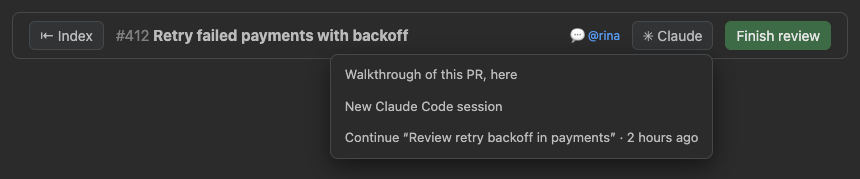
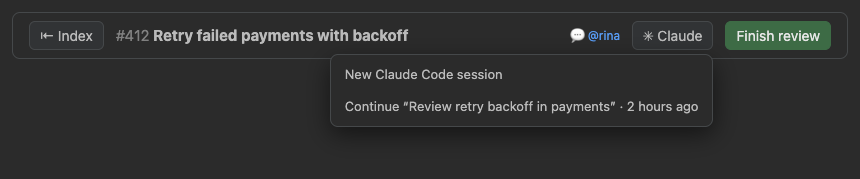
Remove the Claude walkthrough
It didn't work out. ✳ Ask Claude keeps the claude CLI call, renamed for
what it is now (claude_text, /claude-text).

diff --git a/app/src/review.tsx b/app/src/review.tsx
@@ -13,11 +13,11 @@ import { renderMermaid } from './mermaid.ts';
 import { Editor } from './editor.tsx';
 import { MergeBox } from './merge.tsx';
 import { ACTIONS, FIXED, hint, keyLabel, readBindings, useBindings, type Action } from './keys.ts';
-import { claudeContinueLink, claudeNewLink, walkthroughPrompt, askPrompt, reviewDonePrompt, commentPrompt, prPrompt } from './claude.ts';
+import { claudeContinueLink, claudeNewLink, askPrompt, reviewDonePrompt, commentPrompt, prPrompt } from './claude.ts';
 import { vectorToSvg } from './vector.ts';
 import { docBlocks, docParts, docSyntax, editedDocBlocks, lineCommentBlocks, lineCommentSyntax, type DocBlock } from './docs.ts';
 import { reviewOrder, untested } from './files.ts';
-import { ago, backToClaude, claudeWalkthrough, linkedClaude, prCache, claudeFolder, fetchJira, useFoldBots, slackEscape, getClaudeSessions, type ClaudeSession, notifySlack, openClaude, slackStatus, storage, useBots, useStoredFlag, type JiraIssue, type SlackThread } from './platform.ts';
+import { ago, askClaudeCli, backToClaude, linkedClaude, prCache, claudeFolder, fetchJira, useFoldBots, slackEscape, getClaudeSessions, type ClaudeSession, notifySlack, openClaude, slackStatus, storage, useBots, useStoredFlag, type JiraIssue, type SlackThread } from './platform.ts';
 import { adfToMarkdown, jiraKeys } from './jira.ts';
 import { Resizer } from './resizer.tsx';
 import { jumpTo, ShortcutIndex, threadOrder, type File } from './shortcuts.tsx';
@@ -638,7 +638,6 @@ export function Review({ repo, n, onSubmitted, onReviewed, flash }: { repo: stri
             <p class="warn">New commits were pushed since you started this review. Your pending comments refer to the older commit.</p>
           )}
           {jiraKeys(pr.title, pr.head.ref).map((k) => <Ticket key={k} id={k} lang={mainLang} />)}
-          <Walkthrough pr={pr} repo={repo} files={data.files} />
           <AskClaude pr={pr} repo={repo} headRepo={data.headRepo} files={data.files} />
           {mine && <MergeBox repo={repo} n={n} url={pr.html_url} checks={checks} onChange={onSubmitted} />}
           <Conversation pr={pr} items={conv} lang={mainLang} repo={repo} me={me} />
@@ -1632,11 +1631,6 @@ function ClaudeMenu({ prompt, repo, prUrl, label }: { prompt: string; repo: stri
               Back to the session that sent this{fromSession ? ` · “${fromSession.title || 'Untitled'}”` : ''}
             </button>
           )}
-          {label && (
-            <button role="menuitem" title="Claude reads the diff and summarizes it above the files" onClick={() => (setOpen(false), dispatchEvent(new Event('lgtm:walkthrough')))}>
-              Walkthrough of this PR, here
-            </button>
-          )}
           <button role="menuitem" onClick={() => (setOpen(false), void openClaude(claudeNewLink(prompt, claudeFolder(repo))))}>
             New Claude Code session
           </button>
@@ -1662,83 +1656,7 @@ function ClaudeMenu({ prompt, repo, prUrl, label }: { prompt: string; repo: stri
   );
 }
 
-// "✳ Claude → Walkthrough": Claude Code's summary of the PR, above the files. Kept per PR with the commit it read;
-// file paths in it jump to the file.
-type WalkthroughSaved = { sha: string; text: string; html: string };
-function Walkthrough({ pr, repo, files }: { pr: PR; repo: string; files: File[] }) {
-  const key = `walkthrough:${repo}#${pr.number}`;
-  const read = (): WalkthroughSaved | null => {
-    try {
-      return JSON.parse(localStorage.getItem(key) ?? 'null');
-    } catch {
-      return null;
-    }
-  };
-  const [saved, setSaved] = useState(read);
-  const [busy, setBusy] = useState(false);
-  const [err, setErr] = useState('');
-  const run = async () => {
-    setBusy(true);
-    setErr('');
-    try {
-      const text = await claudeWalkthrough(walkthroughPrompt(pr, files));
-      const next = { sha: pr.head.sha, text, html: await renderGfm(text, repo) }; // GitHub sanitizes the HTML
-      try {
-        localStorage.setItem(key, JSON.stringify(next));
-      } catch {}
-      setSaved(next);
-    } catch (e: any) {
-      setErr(e.message);
-    }
-    setBusy(false);
-  };
-  useEffect(() => {
-    const go = () => void run();
-    addEventListener('lgtm:walkthrough', go);
-    return () => removeEventListener('lgtm:walkthrough', go);
-  }, [pr.head.sha, files]);
-  // A path in backticks that names a file in this PR (in full, or by an unambiguous end) jumps to it.
-  const fileFor = (t: string) => {
-    const exact = files.find((f) => f.filename === t);
-    const ends = files.filter((f) => f.filename.endsWith('/' + t));
-    return exact ?? (ends.length === 1 ? ends[0] : undefined);
-  };
-  const body = useRef<HTMLDivElement>(null);
-  useEffect(() => {
-    for (const c of body.current?.querySelectorAll('code') ?? []) if (fileFor(c.textContent ?? '')) c.classList.add('wt-file');
-  }, [saved, files]);
-  if (!saved && !busy && !err) return null;
-  return (
-    <details class="walkthrough" open>
-      <summary>
-        ✳ Walkthrough by Claude
-        {saved && saved.sha !== pr.head.sha && <span class="pill p-warn">written before the latest commits</span>}
-        <button disabled={busy} onClick={(e) => (e.preventDefault(), void run())}>{busy ? 'Claude is reading the diff…' : 'Write again'}</button>
-        <button title="Remove" onClick={(e) => (e.preventDefault(), localStorage.removeItem(key), setSaved(null), setErr(''))}>✕</button>
-      </summary>
-      {err && (
-        <p class="error">
-          Couldn't get a walkthrough: {err}
-          {/authenticat|oauth|log ?in/i.test(err) && <> Sign Claude Code in again: run <code>claude</code> in Terminal, then <code>/login</code>.</>}
-        </p>
-      )}
-      {saved && (
-        <div
-          ref={body}
-          class="md"
-          dangerouslySetInnerHTML={{ __html: saved.html }}
-          onClick={(e) => {
-            const f = (e.target as Element).closest('code.wt-file') && fileFor((e.target as Element).textContent ?? '');
-            if (f) document.getElementById('f-' + f.filename)?.scrollIntoView();
-          }}
-        />
-      )}
-    </details>
-  );
-}
-
-// Select code in a file, then "✳ Ask Claude": a question about it, answered by the claude CLI (as the walkthrough)
-// with the file, its diff in this PR and the selection.
+// Select code in a file, then "✳ Ask Claude": a question about it, answered by the claude CLI with the file, its diff in this PR and the selection.
 function AskClaude({ pr, repo, headRepo, files }: { pr: PR; repo: string; headRepo: string; files: File[] }) {
   const [sel, setSel] = useState<{ path: string; text: string; x: number; y: number } | null>(null);
   const [panel, setPanel] = useState<{ path: string; text: string } | null>(null);
@@ -1770,7 +1688,7 @@ function AskClaude({ pr, repo, headRepo, files }: { pr: PR; repo: string; headRe
     try {
       const f = files.find((f) => f.filename === panel.path);
       const source = f?.status === 'removed' ? null : await getRaw(headRepo, panel.path, pr.head.sha).catch(() => null);
-      const text = await claudeWalkthrough(askPrompt(pr, panel.path, f?.patch, source, panel.text, q.trim()));
+      const text = await askClaudeCli(askPrompt(pr, panel.path, f?.patch, source, panel.text, q.trim()));
       setAnswer({ html: await renderGfm(text, repo) }); // GitHub sanitizes the HTML
     } catch (e: any) {
       setAnswer({ error: e.message });

diff --git a/app/src/claude.ts b/app/src/claude.ts
@@ -35,36 +35,6 @@ export function commentPrompt(
   ].join('\n');
 }
 
-// The walkthrough (shown in lgtm, from the claude CLI): what the PR does, its changes grouped by intent, and where to
-// slow down. Generated files are left out; the diff is cut at MAX_DIFF characters.
-const MAX_DIFF = 400_000;
-export function walkthroughPrompt(
-  pr: { html_url: string; title: string; body: string | null },
-  files: { filename: string; status: string; patch?: string; generated?: boolean }[],
-): string {
-  let diff = '';
-  for (const f of files.filter((f) => !f.generated)) {
-    const part = `--- ${f.filename} (${f.status})\n${f.patch ?? '(no text diff: binary, renamed only, or too large)'}\n`;
-    if (diff.length + part.length > MAX_DIFF) {
-      diff += `\n(The diff continues; it was cut here for length.)\n`;
-      break;
-    }
-    diff += part;
-  }
-  return [
-    "You're helping someone review a GitHub pull request. Its title, description and diff are below. Write a short walkthrough in Markdown:",
-    '1. One or two sentences: what the PR does and why.',
-    '2. A "### Changes" section: the changes grouped by intent (not file by file), one bullet each, naming the files involved as full paths in backticks, exactly as in the diff.',
-    '3. A "### Worth a close look" section: up to five spots where a reviewer should slow down (risky logic, edge cases, behaviour changes, missing tests), each naming the file path in backticks and saying why.',
-    'Be concise and concrete. No praise, no preamble, no closing remarks.',
-    '',
-    `PR: ${pr.html_url}`,
-    `Title: ${pr.title}`,
-    `Description:\n${pr.body?.trim() || '(none)'}`,
-    `Diff:\n${diff}`,
-  ].join('\n');
-}
-
 // "Ask Claude" about code selected in a file: the question with the file as it is now, its diff in this PR and the
 // selection.
 export function askPrompt(

diff --git a/app/src/style.css b/app/src/style.css
@@ -476,14 +476,6 @@ mark.wd-add { background: light-dark(#a6f0b5, #3a6b45); color: inherit; padding:
 .set-replies td { padding: 3px 4px; vertical-align: top; }
 .set-replies td:first-child { width: 120px; }
 .set-replies input, .set-replies textarea { width: 100%; box-sizing: border-box; font: inherit; }
-/* Claude's walkthrough, above the files */
-.walkthrough { margin-bottom: 12px; padding: 8px 12px; border: 1px solid var(--border); border-left: 4px solid var(--accent); border-radius: 6px; }
-.walkthrough > summary { display: flex; align-items: center; gap: 8px; font-weight: 600; font-size: 13px; cursor: pointer; }
-.walkthrough > summary button { font-weight: 400; font-size: 12px; }
-.walkthrough > summary button:first-of-type { margin-left: auto; }
-.walkthrough .md { font-size: 14px; }
-.walkthrough code.wt-file { cursor: pointer; color: var(--accent); }
-.walkthrough code.wt-file:hover { text-decoration: underline; }
 .g-note { margin-left: 6px; font-weight: 400; color: var(--muted); }
 /* The app: the top bar is the title bar, with room for the traffic lights on the left. */
 .desktop .top { padding-left: 84px; -webkit-user-select: none; user-select: none; }

diff --git a/app/src/platform.ts b/app/src/platform.ts
@@ -315,12 +315,12 @@ export async function availableUpdate(): Promise<string | null> {
   }
   return newer(saved.latest, __APP_VERSION__) ? saved.latest.replace(/^v/, '') : null;
 }
-// A PR walkthrough from Claude Code (the claude CLI) for a prompt the page builds (claude.ts).
-export async function claudeWalkthrough(input: string): Promise<string> {
-  if (isDesktop) return command<string>('walkthrough', { input });
-  const res = await fetch('/walkthrough', { method: 'POST', headers: { 'Content-Type': 'application/json' }, body: JSON.stringify({ input }) });
+// Claude Code's answer (the claude CLI) to a prompt the page builds (claude.ts: Ask Claude).
+export async function askClaudeCli(input: string): Promise<string> {
+  if (isDesktop) return command<string>('claude_text', { input });
+  const res = await fetch('/claude-text', { method: 'POST', headers: { 'Content-Type': 'application/json' }, body: JSON.stringify({ input }) });
   const d = await res.json().catch(() => ({ error: res.statusText }));
-  if (!res.ok) throw new Error(d.error ?? 'Walkthrough failed');
+  if (!res.ok) throw new Error(d.error ?? 'Claude failed');
   return d.text;
 }
 

diff --git a/app/src/demos.tsx b/app/src/demos.tsx
@@ -427,7 +427,6 @@ const Bar = ({ menu }: { menu?: boolean }) => (
       <button class="claude-btn">✳ Claude</button>
       {menu && (
         <span class="claude-pop" role="menu">
-          <button role="menuitem">Walkthrough of this PR, here</button>
           <button role="menuitem">New Claude Code session</button>
           <button role="menuitem">Continue “Review retry backoff in payments” · 2 hours ago</button>
         </span>

diff --git a/desktop/src-tauri/src/commands.rs b/desktop/src-tauri/src/commands.rs
@@ -431,12 +431,12 @@ pub async fn clipboard_pr() -> Option<String> {
     pr_link(&String::from_utf8_lossy(&out.stdout[..out.stdout.len().min(1 << 16)]))
 }
 
-/// The PR walkthrough: the page's prompt through Claude Code's CLI, without tools or a saved session (as the server's
+/// Ask Claude: the page's prompt through Claude Code's CLI, without tools or a saved session (as the server's
 /// claudeText()).
 #[tauri::command]
-pub async fn walkthrough(input: String) -> Result<String, String> {
+pub async fn claude_text(input: String) -> Result<String, String> {
     if input.is_empty() || input.len() > 800_000 {
-        return Err("Bad walkthrough request".into());
+        return Err("Bad request for Claude".into());
     }
     let args = ["-p", "--tools", "", "--no-session-persistence", "--output-format", "text"];
     let out = run("claude", &args, Some(&input), std::time::Duration::from_secs(300));

diff --git a/desktop/src-tauri/build.rs b/desktop/src-tauri/build.rs
@@ -1,7 +1,7 @@
 // Only lgtm's own commands are callable from the page, each granted by name in capabilities/default.json.
 const COMMANDS: &[&str] = &[
     "gh_token", "integrations", "jira_issue", "job_log", "slack_status", "slack_notify",
-    "slack_people_get", "slack_people_find", "slack_people_save", "export_settings", "claude_sessions", "clipboard_pr", "copy_text", "self_update", "walkthrough", "claude_skill",
+    "slack_people_get", "slack_people_find", "slack_people_save", "export_settings", "claude_sessions", "clipboard_pr", "copy_text", "self_update", "claude_text", "claude_skill",
 ];
 
 fn main() {

diff --git a/desktop/src-tauri/src/lib.rs b/desktop/src-tauri/src/lib.rs
@@ -144,7 +144,7 @@ pub fn run() {
             commands::clipboard_pr,
             commands::copy_text,
             commands::self_update,
-            commands::walkthrough,
+            commands::claude_text,
             commands::claude_skill,
         ])
         .run(tauri::generate_context!())

diff --git a/README.md b/README.md
@@ -51,13 +51,13 @@ If the org enforces SSO, authorize the gh token for it when GitHub asks. ⚙ Set
   <img alt="A review thread under a diff line, with a suggested change and a reply being written" src="docs/features/scene-comment-light.png" width="760">
 </picture>
 
-**Claude Code.** ✳ Claude on the PR bar or on any comment opens a Claude Code session in the Claude desktop app with the PR or comment in the prompt (in the repo's local folder, set in Settings), or writes a walkthrough of the PR right above its files: what it does, the changes grouped by intent, and where to look closely. That one runs the `claude` CLI on the diff, with your Claude login; so does ✳ Ask Claude, which appears when you select code and answers a question about it. Or it copies the prompt and reopens a session already about that PR: one started on it (lgtm finds those in the Claude app's local session records; switch it off in Settings), or the one that sent it here (see below).
+**Claude Code.** ✳ Claude on the PR bar or on any comment opens a Claude Code session in the Claude desktop app with the PR or comment in the prompt (in the repo's local folder, set in Settings). ✳ Ask Claude appears when you select code and answers a question about it, through the `claude` CLI with your Claude login. Or it copies the prompt and reopens a session already about that PR: one started on it (lgtm finds those in the Claude app's local session records; switch it off in Settings), or the one that sent it here (see below).
 
 And the other way: Settings → Claude Code → Install adds an `lgtm-review` skill to Claude Code. When a PR is ready for you to review, Claude offers to open it here (it asks once and remembers), with a link to its session: ✳ Claude on that PR offers "Back to the session that sent this", and after you submit your review lgtm offers to send it the outcome, your verdict and comments, to address.
 
 <picture>
   <source media="(prefers-color-scheme: dark)" srcset="docs/features/scene-claude-dark.png">
-  <img alt="The ✳ Claude menu: a walkthrough, a new session, or a session started on this PR" src="docs/features/scene-claude-light.png" width="760">
+  <img alt="The ✳ Claude menu: a new session, or a session started on this PR" src="docs/features/scene-claude-light.png" width="760">
 </picture>
 
 **Your PRs.** A merge box with what's blocking and the controls: ready for review, update branch, merge, auto-merge. A PR waiting for review shows for how long, and after a day `🔔 nudge` reminds the requested reviewers on Slack (it asks before sending).
